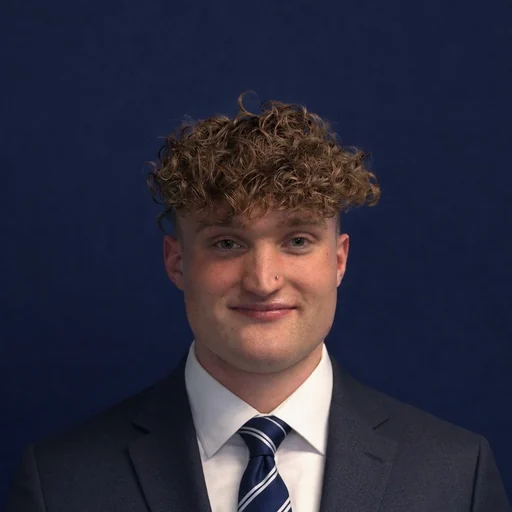
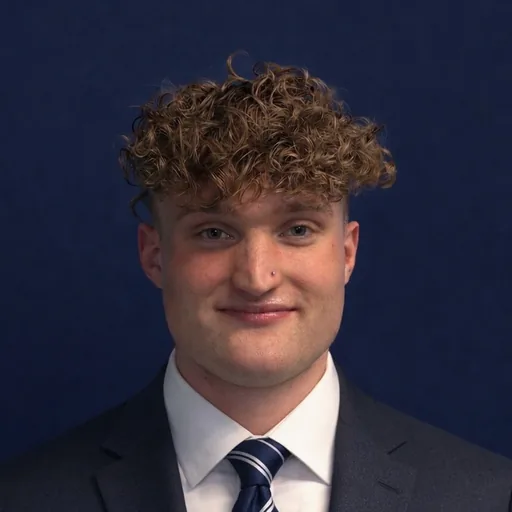
Headshot: head-and-shoulders square crop (less suit) for Google Images and share previews; headshot.png re-cropped in place since Google indexed that URL

Changed region(s): [[0.2188, 0.0938, 0.7812, 1.0], [0.9062, 0.9062, 0.9375, 1.0], [0.9688, 0.9062, 1.0, 0.9688]]

diff --git a/index.html b/index.html
@@ -24,7 +24,7 @@
   <meta property="og:url" content="https://jakemoore.dev/" />
   <meta property="og:image" content="https://jakemoore.dev/assets/img/jake-moore-arizona.jpg" />
   <meta property="og:image:width" content="800" />
-  <meta property="og:image:height" content="1200" />
+  <meta property="og:image:height" content="800" />
   <meta property="og:image:alt" content="Jake Moore, University of Arizona MIS student" />
 
   <!-- Twitter Card -->
@@ -70,7 +70,7 @@
           "url": "https://jakemoore.dev/assets/img/jake-moore-arizona.jpg",
           "contentUrl": "https://jakemoore.dev/assets/img/jake-moore-arizona.jpg",
           "width": 800,
-          "height": 1200,
+          "height": 800,
           "caption": "Jake Moore, University of Arizona MIS student"
         },
         "description": "Digital Engineering / IT Intern at Honeywell Aerospace and Management Information Systems student at the University of Arizona Eller College of Management, based in Tucson, Arizona. Graduating May 2027.",

diff --git a/portfolio.html b/portfolio.html
@@ -23,7 +23,7 @@
   <meta property="og:url" content="https://jakemoore.dev/portfolio.html" />
   <meta property="og:image" content="https://jakemoore.dev/assets/img/jake-moore-arizona.jpg" />
   <meta property="og:image:width" content="800" />
-  <meta property="og:image:height" content="1200" />
+  <meta property="og:image:height" content="800" />
   <meta property="og:image:alt" content="Jake Moore, University of Arizona MIS student" />
 
   <!-- Twitter Card -->

diff --git a/contact.html b/contact.html
@@ -23,7 +23,7 @@
   <meta property="og:url" content="https://jakemoore.dev/contact.html" />
   <meta property="og:image" content="https://jakemoore.dev/assets/img/jake-moore-arizona.jpg" />
   <meta property="og:image:width" content="800" />
-  <meta property="og:image:height" content="1200" />
+  <meta property="og:image:height" content="800" />
   <meta property="og:image:alt" content="Jake Moore, University of Arizona MIS student" />
 
   <!-- Twitter Card -->

diff --git a/python.html b/python.html
@@ -23,7 +23,7 @@
   <meta property="og:url" content="https://jakemoore.dev/python.html" />
   <meta property="og:image" content="https://jakemoore.dev/assets/img/jake-moore-arizona.jpg" />
   <meta property="og:image:width" content="800" />
-  <meta property="og:image:height" content="1200" />
+  <meta property="og:image:height" content="800" />
   <meta property="og:image:alt" content="Jake Moore, University of Arizona MIS student" />
 
   <!-- Twitter Card -->

diff --git a/excel.html b/excel.html
@@ -23,7 +23,7 @@
   <meta property="og:url" content="https://jakemoore.dev/excel.html" />
   <meta property="og:image" content="https://jakemoore.dev/assets/img/jake-moore-arizona.jpg" />
   <meta property="og:image:width" content="800" />
-  <meta property="og:image:height" content="1200" />
+  <meta property="og:image:height" content="800" />
   <meta property="og:image:alt" content="Jake Moore, University of Arizona MIS student" />
 
   <!-- Twitter Card -->

diff --git a/r.html b/r.html
@@ -23,7 +23,7 @@
   <meta property="og:url" content="https://jakemoore.dev/r.html" />
   <meta property="og:image" content="https://jakemoore.dev/assets/img/jake-moore-arizona.jpg" />
   <meta property="og:image:width" content="800" />
-  <meta property="og:image:height" content="1200" />
+  <meta property="og:image:height" content="800" />
   <meta property="og:image:alt" content="Jake Moore, University of Arizona MIS student" />
 
   <!-- Twitter Card -->
